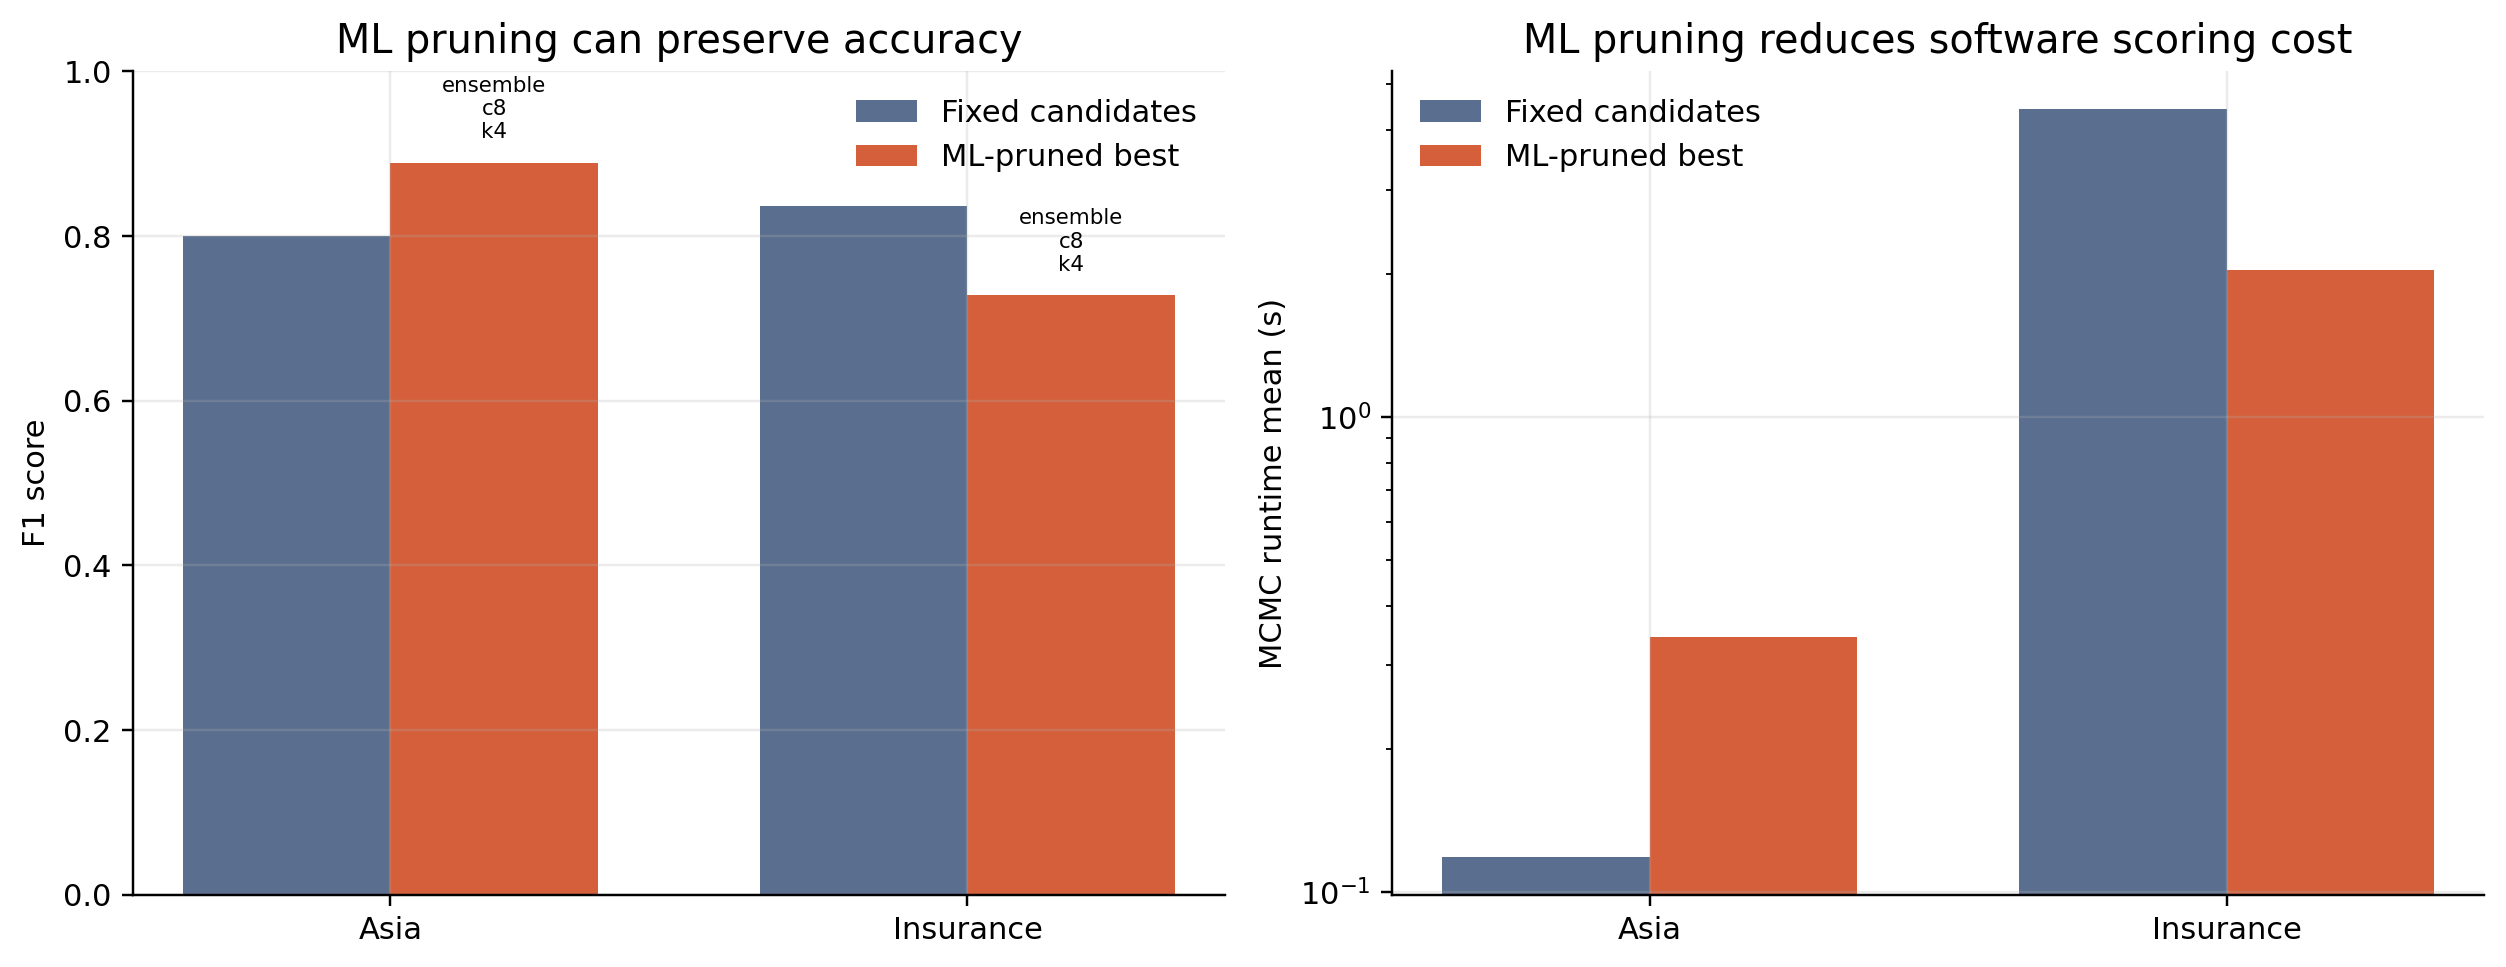
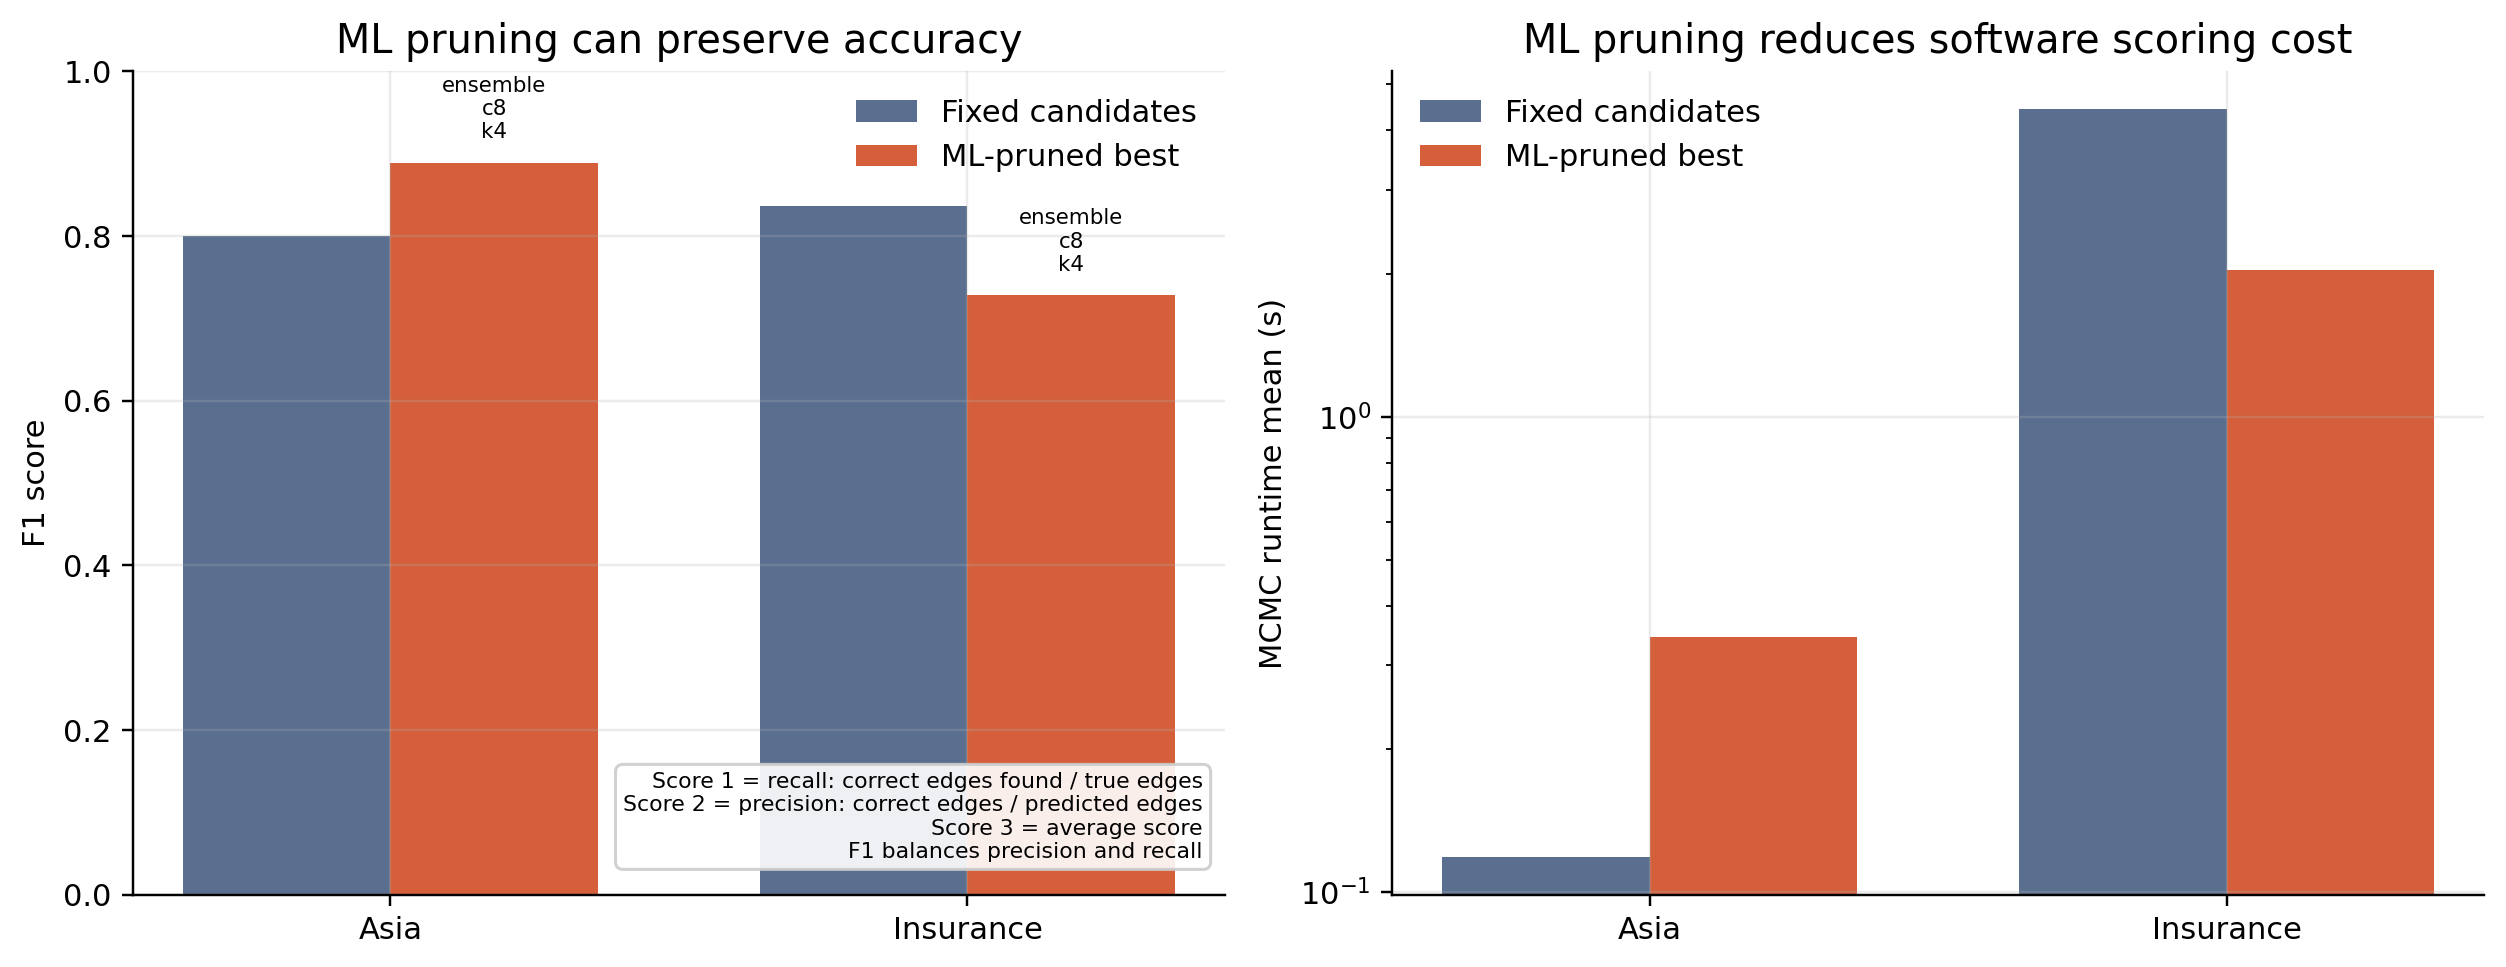
Redid images with proper naming

Changed region(s): [[0.249, 0.7756, 0.498, 0.8997]]

diff --git a/scripts/generate_ece5760_figures.py b/scripts/generate_ece5760_figures.py
@@ -76,6 +76,34 @@ def savefig(name):
     return path
 
 
+def add_score_key(ax, *, loc="lower right", include_f1=False):
+    lines = [
+        "Score 1 = recall: correct edges found / true edges",
+        "Score 2 = precision: correct edges / predicted edges",
+        "Score 3 = average score",
+    ]
+    if include_f1:
+        lines.append("F1 balances precision and recall")
+
+    anchors = {
+        "lower right": (0.98, 0.04, "right", "bottom"),
+        "lower left": (0.02, 0.04, "left", "bottom"),
+        "upper right": (0.98, 0.96, "right", "top"),
+        "upper left": (0.02, 0.96, "left", "top"),
+    }
+    x, y, ha, va = anchors[loc]
+    ax.text(
+        x,
+        y,
+        "\n".join(lines),
+        transform=ax.transAxes,
+        ha=ha,
+        va=va,
+        fontsize=7.2,
+        bbox={"boxstyle": "round,pad=0.35", "facecolor": "white", "edgecolor": "#cccccc", "alpha": 0.9},
+    )
+
+
 def load_timing():
     return pd.read_excel(WORKBOOK, sheet_name="Final Project", header=None)
 
@@ -142,8 +170,9 @@ def plot_insurance_runtime_and_score(timing):
     ax.set_xscale("log")
     ax.set_ylim(0, 0.92)
     ax.set_xlabel("MCMC iterations")
-    ax.set_ylabel("Score 3 / average score")
+    ax.set_ylabel("Score 3 (average score)")
     ax.set_title("Insurance score convergence")
+    add_score_key(ax, loc="lower right")
     ax.legend()
 
     return savefig("insurance_runtime_score_convergence.png")
@@ -181,8 +210,9 @@ def plot_parallelization_convergence(timing):
     ax.set_xscale("log")
     ax.set_ylim(0, 0.9)
     ax.set_xlabel("MCMC iterations")
-    ax.set_ylabel("Score 3 / average score")
+    ax.set_ylabel("Score 3 (average score)")
     ax.set_title("Parallelization improves early convergence, then converges")
+    add_score_key(ax, loc="lower right")
     ax.legend(ncol=2)
     return savefig("parallel_versions_score_convergence.png")
 
@@ -191,14 +221,15 @@ def plot_parallel_score_components(timing):
     df = extract_parallel_table(timing)
     sub = df[df["parallel_versions"] == 4].sort_values("iterations")
     fig, ax = plt.subplots(figsize=(7.4, 4.4))
-    ax.plot(sub["iterations"], sub["score1"], "o-", label="Score 1", color="#5a6f8f")
-    ax.plot(sub["iterations"], sub["score2"], "s-", label="Score 2", color="#44947b")
-    ax.plot(sub["iterations"], sub["score3"], "^-", label="Score 3 / average", color="#d45f3a", linewidth=2.3)
+    ax.plot(sub["iterations"], sub["score1"], "o-", label="Score 1: recall", color="#5a6f8f")
+    ax.plot(sub["iterations"], sub["score2"], "s-", label="Score 2: precision", color="#44947b")
+    ax.plot(sub["iterations"], sub["score3"], "^-", label="Score 3: average", color="#d45f3a", linewidth=2.3)
     ax.set_xscale("log")
     ax.set_ylim(0, 1.0)
     ax.set_xlabel("MCMC iterations")
     ax.set_ylabel("Score")
     ax.set_title("Score components for 4-way parallel Insurance run")
+    add_score_key(ax, loc="lower right")
     ax.legend()
     return savefig("insurance_score_components_4way.png")
 
@@ -258,11 +289,13 @@ def plot_ml_tradeoff(timing):
     axes[0].set_ylabel("F1 score")
     axes[0].set_title("Accuracy/runtime tradeoff")
     axes[0].text(0.02, 0.03, "Bubble area scales with table size", transform=axes[0].transAxes, fontsize=8)
+    add_score_key(axes[0], loc="lower right", include_f1=True)
 
     axes[1].set_xscale("log")
     axes[1].set_xlabel("Score table size (bytes)")
     axes[1].set_ylabel("F1 score")
     axes[1].set_title("Accuracy/table-size tradeoff")
+    add_score_key(axes[1], loc="upper left", include_f1=True)
 
     legend_handles = [
         plt.Line2D([0], [0], marker="o", color="w", label="Asia", markerfacecolor="#444", markersize=8),
@@ -298,6 +331,7 @@ def plot_ml_vs_fixed_software(timing):
     axes[0].set_ylim(0, 1.0)
     axes[0].set_ylabel("F1 score")
     axes[0].set_title("ML pruning can preserve accuracy")
+    add_score_key(axes[0], loc="lower right", include_f1=True)
     axes[0].legend()
 
     fixed_runtime = [fixed.loc[d, "mcmc_sec_mean"] for d in datasets]

diff --git a/_pages/results.md b/_pages/results.md
@@ -29,7 +29,7 @@ The parallel-version experiment shows the expected behavior for sampling. With s
 
 {% include figure.liquid path="assets/img/results/insurance_score_components_4way.png" class="img-fluid rounded z-depth-1" alt="Insurance score components for four-way parallel run" %}
 
-The score-component plot separates the three score columns from the spreadsheet for the four-way parallel Insurance run. Score 3 is treated as the average score because it tracks between score 1 and score 2 across the iteration sweep. All three scores improve sharply from 100 to 5,000 iterations, then flatten, which suggests diminishing returns after the sampler has reached a strong region of the order space.
+The score-component plot separates the three score columns from the spreadsheet for the four-way parallel Insurance run. Score 1 is recall, meaning the percent of correct edges recovered from the reference graph. Score 2 is precision, meaning the percent of predicted edges that were actually correct. Score 3 is treated as the average score because it tracks between recall and precision across the iteration sweep. All three scores improve sharply from 100 to 5,000 iterations, then flatten, which suggests diminishing returns after the sampler has reached a strong region of the order space.
 
 {% include figure.liquid path="assets/img/results/ml_vs_fixed_software.png" class="img-fluid rounded z-depth-1" alt="ML-pruned candidates versus fixed candidate baseline" %}
 

diff --git a/_pages/appendices.md b/_pages/appendices.md
@@ -1,8 +1,8 @@
 ---
 layout: page
-title: appendices
+title: appendices and references
 permalink: /appendices/
-description: Code listings, schematics, and team contributions.
+description: Code listings, schematics, team contributions, permissions, and references.
 nav: true
 nav_order: 4
 ---
@@ -45,3 +45,12 @@ TODO: List the specific tasks carried out by each team member.
 | --- | --- |
 | Irwin Wang | TODO |
 | Joseph Wan | TODO |
+
+## References
+
+1. ECE 5760 course materials and DE1-SoC documentation.
+2. Intel/Altera Cyclone V and DE1-SoC documentation.
+3. Asadi, N. B., Meng, T. H., and Wong, W. H. "Reconfigurable Computing for Learning Bayesian Networks." ACM/SIGDA International Symposium on Field Programmable Gate Arrays, 2008. [https://dl.acm.org/doi/pdf/10.1145/1344671.1344702](https://dl.acm.org/doi/pdf/10.1145/1344671.1344702)
+4. bnlearn Bayesian-network datasets and benchmark networks. [https://www.bnlearn.com/](https://www.bnlearn.com/)
+5. Background references on Bayesian-network structure learning, MCMC sampling, and Metropolis-Hastings acceptance.
+6. ECE 5760 VGA drawing/display support code used for the project display.

diff --git a/_pages/references.md b/_pages/references.md
@@ -3,15 +3,9 @@ layout: page
 title: references
 permalink: /references/
 description: Datasheets, vendor docs, borrowed code/designs, and background sources.
-nav: true
+nav: false
 nav_order: 5
+published: false
 ---
 
-## Reference List
-
-1. ECE 5760 course materials and DE1-SoC documentation.
-2. Intel/Altera Cyclone V and DE1-SoC documentation.
-3. Asadi, N. B., Meng, T. H., and Wong, W. H. "Reconfigurable Computing for Learning Bayesian Networks." ACM/SIGDA International Symposium on Field Programmable Gate Arrays, 2008. [https://dl.acm.org/doi/pdf/10.1145/1344671.1344702](https://dl.acm.org/doi/pdf/10.1145/1344671.1344702)
-4. bnlearn Bayesian-network datasets and benchmark networks. [https://www.bnlearn.com/](https://www.bnlearn.com/)
-5. Background references on Bayesian-network structure learning, MCMC sampling, and Metropolis-Hastings acceptance.
-6. ECE 5760 VGA drawing/display support code used for the project display.
+References have been merged into the appendices page.
